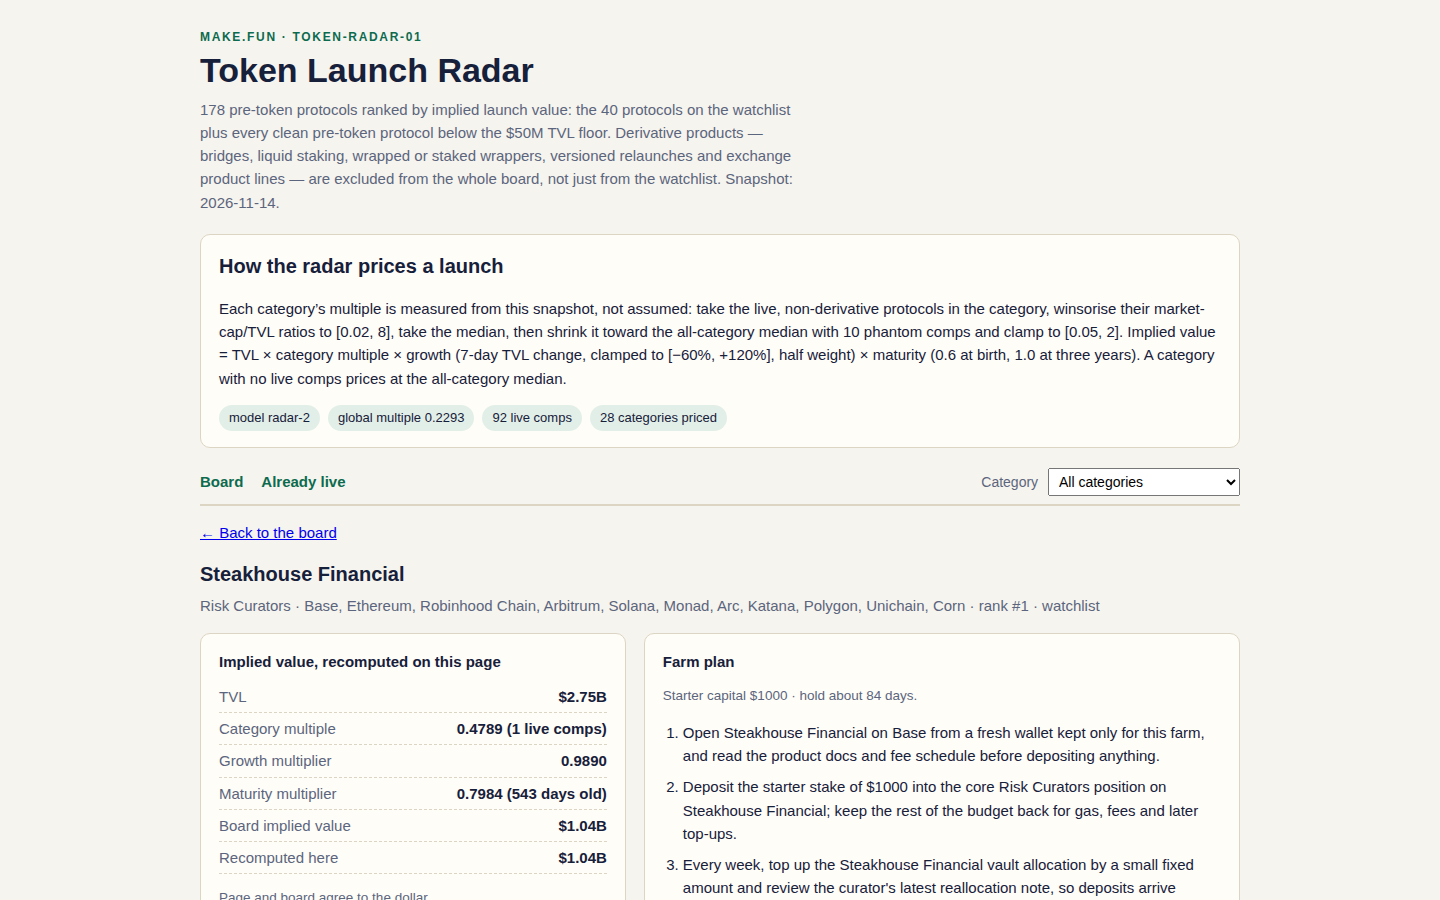
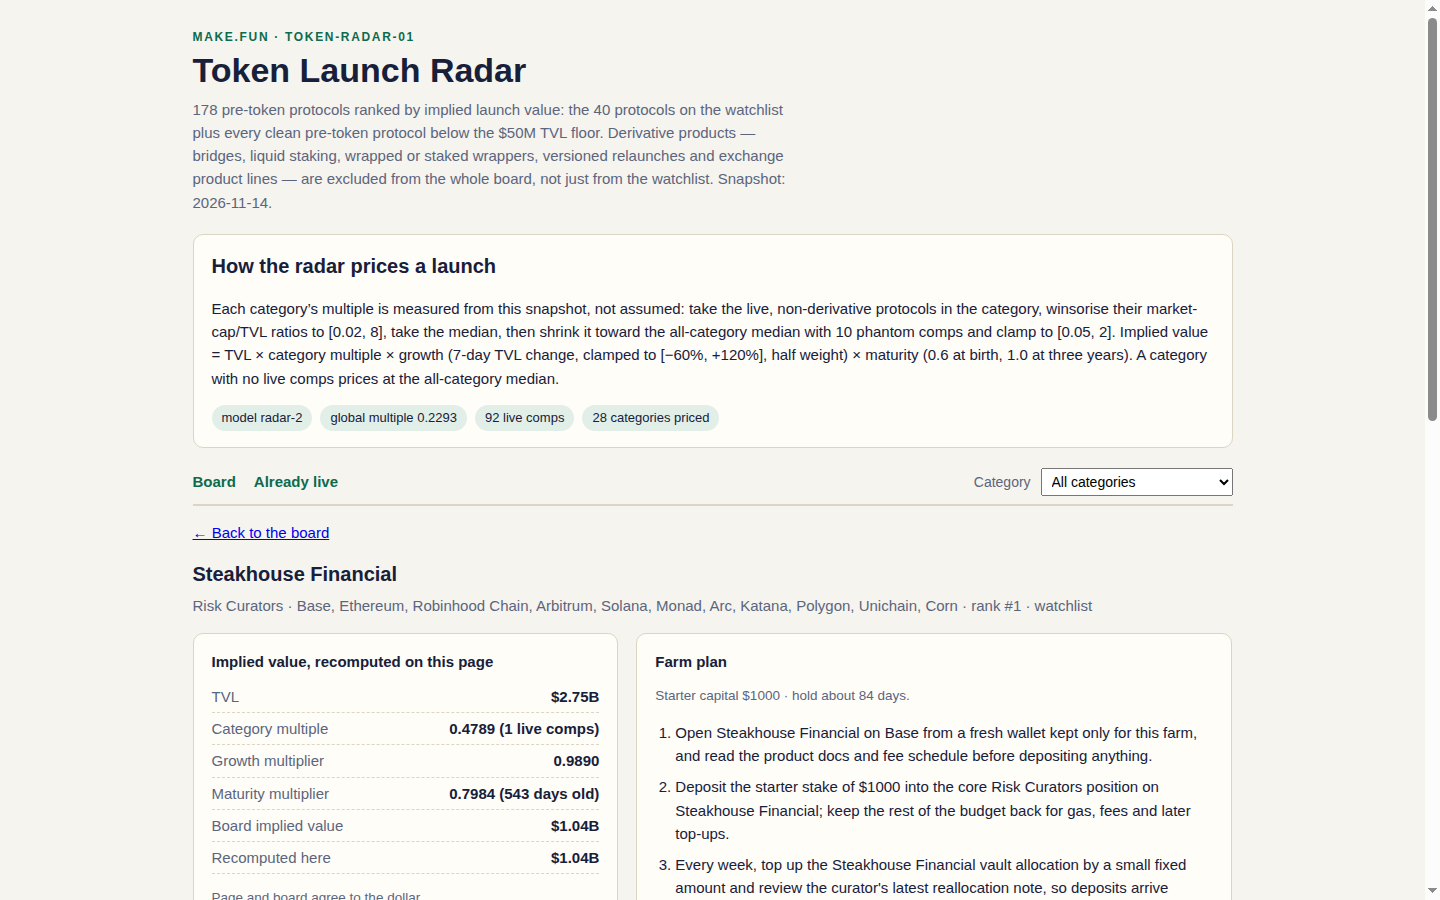
Add leave-one-out validation evidence panel, reproducibility and limits notes; refresh screenshots

diff --git a/lib/model.ts b/lib/model.ts
@@ -279,6 +279,118 @@ export function farmPlan(p: Protocol, category: string): { capital_usd: number; 
   return { capital_usd: capital, hold_days: hold, steps };
 }
 
+// -------------------------------------------------------------- validation
+
+/** How the measured multiples perform when they are tested, not asserted. */
+export interface Validation {
+  /** Live protocols the test ran over (the same set that feeds pricing). */
+  comps: number;
+  /** Median fold error of the category model: half of all leave-one-out
+   * predictions land within this factor of the real market cap. */
+  median_fold_error: number;
+  /** Share of predictions within 2x of the real market cap, percent. */
+  within_2x_pct: number;
+  /** Share of predictions within 3x of the real market cap, percent. */
+  within_3x_pct: number;
+  /** The same two numbers for a flat all-category multiple, as a baseline. */
+  baseline_median_fold_error: number;
+  baseline_within_2x_pct: number;
+  /** Spearman rank correlation between predicted and actual market caps:
+   * the radar is a ranking, so this is the number that grades its order. */
+  rank_correlation: number;
+  baseline_rank_correlation: number;
+}
+
+const round3 = (x: number): number => Math.round(x * 1000) / 1000;
+const round1 = (x: number): number => Math.round(x * 10) / 10;
+
+/**
+ * Leave-one-out back-test of the pricing model on the snapshot's own live
+ * protocols. For each live comp, the category multiple is re-measured
+ * without that comp (the global median is re-measured too), the comp's
+ * market cap is predicted from its TVL alone, and the prediction is scored
+ * against the market cap it actually trades at. A flat global multiple is
+ * scored the same way as the baseline the category model has to beat.
+ */
+export function validateModel(protocols: Protocol[]): Validation {
+  const comps: { category: string; tvl: number; mcap: number; ratio: number }[] = [];
+  const ratiosByCategory = new Map<string, number[]>();
+  const allRatios: number[] = [];
+  for (const p of protocols) {
+    if (isPreToken(p) || isDerivative(p)) continue;
+    if (p.mcap_usd === null || p.mcap_usd <= 0 || p.tvl_usd <= 0) continue;
+    const ratio = clamp(p.mcap_usd / p.tvl_usd, WINSOR_LO, WINSOR_HI);
+    comps.push({ category: p.category, tvl: p.tvl_usd, mcap: p.mcap_usd, ratio });
+    allRatios.push(ratio);
+    const list = ratiosByCategory.get(p.category);
+    if (list) list.push(ratio);
+    else ratiosByCategory.set(p.category, [ratio]);
+  }
+  const folds: number[] = [];
+  const baselineFolds: number[] = [];
+  const predictedCaps: number[] = [];
+  const baselineCaps: number[] = [];
+  const actualCaps: number[] = [];
+  for (const comp of comps) {
+    const looAll = [...allRatios];
+    looAll.splice(looAll.indexOf(comp.ratio), 1);
+    const looGlobal = median(looAll);
+    const looCat = [...(ratiosByCategory.get(comp.category) ?? [])];
+    looCat.splice(looCat.indexOf(comp.ratio), 1);
+    const multiple =
+      looCat.length > 0
+        ? clamp((looCat.length * median(looCat) + SHRINK_K * looGlobal) / (looCat.length + SHRINK_K), MULT_LO, MULT_HI)
+        : looGlobal;
+    const predicted = comp.tvl * multiple;
+    folds.push(Math.max(predicted / comp.mcap, comp.mcap / predicted));
+    const baseline = comp.tvl * looGlobal;
+    baselineFolds.push(Math.max(baseline / comp.mcap, comp.mcap / baseline));
+    predictedCaps.push(predicted);
+    baselineCaps.push(baseline);
+    actualCaps.push(comp.mcap);
+  }
+  const within = (xs: number[], cap: number): number => (xs.filter((x) => x <= cap).length / xs.length) * 100;
+  return {
+    comps: comps.length,
+    median_fold_error: round3(median(folds)),
+    within_2x_pct: round1(within(folds, 2)),
+    within_3x_pct: round1(within(folds, 3)),
+    baseline_median_fold_error: round3(median(baselineFolds)),
+    baseline_within_2x_pct: round1(within(baselineFolds, 2)),
+    rank_correlation: round3(spearman(predictedCaps, actualCaps)),
+    baseline_rank_correlation: round3(spearman(baselineCaps, actualCaps)),
+  };
+}
+
+/** Spearman rank correlation: average ranks for ties, Pearson on the ranks. */
+function spearman(xs: number[], ys: number[]): number {
+  const ranks = (vs: number[]): number[] => {
+    const order = vs.map((v, i) => [v, i] as const).sort((a, b) => a[0] - b[0]);
+    const out = new Array<number>(vs.length);
+    for (let i = 0; i < order.length; ) {
+      let j = i;
+      while (j + 1 < order.length && order[j + 1]![0] === order[i]![0]) j++;
+      const avg = (i + j) / 2 + 1;
+      for (let k = i; k <= j; k++) out[order[k]![1]] = avg;
+      i = j + 1;
+    }
+    return out;
+  };
+  const rx = ranks(xs);
+  const ry = ranks(ys);
+  const mx = rx.reduce((a, b) => a + b, 0) / rx.length;
+  const my = ry.reduce((a, b) => a + b, 0) / ry.length;
+  let cov = 0;
+  let vx = 0;
+  let vy = 0;
+  for (let i = 0; i < rx.length; i++) {
+    cov += (rx[i]! - mx) * (ry[i]! - my);
+    vx += (rx[i]! - mx) ** 2;
+    vy += (ry[i]! - my) ** 2;
+  }
+  return vx > 0 && vy > 0 ? cov / Math.sqrt(vx * vy) : 0;
+}
+
 // ------------------------------------------------------------------- board
 
 /** One row of the ranked board (board.json) and of the dashboard data. */

diff --git a/dashboard/app.js b/dashboard/app.js
@@ -135,6 +135,43 @@ function render(data) {
     '<span class="chip">' + m.comps_total + ' live comps</span>' +
     '<span class="chip">' + m.categories_with_comps + ' categories priced</span>';
 
+  var v = data.validation;
+  document.getElementById('validation-text').textContent =
+    'The multiples above are tested, not just asserted. Each of the ' + v.comps + ' live ' +
+    'protocols in this snapshot is priced as if it were still pre-token: its category ' +
+    'multiple is re-measured without it (leave-one-out), its market cap is predicted from ' +
+    'TVL alone, and the prediction is scored against the market cap it actually trades at. ' +
+    'The result is a wide band, stated plainly: the median prediction is off by ' +
+    v.median_fold_error.toFixed(2) + '\u00d7; ' + v.within_2x_pct + '% of predictions land ' +
+    'within 2\u00d7 and ' + v.within_3x_pct + '% within 3\u00d7. A flat all-category multiple ' +
+    'scores the same within noise (median ' + v.baseline_median_fold_error.toFixed(2) +
+    '\u00d7; rank correlation ' + v.baseline_rank_correlation.toFixed(2) + ' against this ' +
+    'model\u2019s ' + v.rank_correlation.toFixed(2) + ') — on a single snapshot, category ' +
+    'pricing cannot be shown to beat TVL alone, and this page does not pretend otherwise. ' +
+    'The category model is kept because a lending protocol and a perps protocol with equal ' +
+    'TVL do not launch alike, so each sector\u2019s measured multiple is the honest prior ' +
+    'for its own protocols. Read the ranking as a screening order with the spread above ' +
+    'attached to every number on it.';
+  document.getElementById('validation-chips').innerHTML =
+    '<span class="chip">leave-one-out \u00b7 ' + v.comps + ' live protocols</span>' +
+    '<span class="chip">median error ' + v.median_fold_error.toFixed(2) + '\u00d7</span>' +
+    '<span class="chip">' + v.within_2x_pct + '% within 2\u00d7</span>' +
+    '<span class="chip">rank correlation ' + v.rank_correlation.toFixed(2) + '</span>';
+
+  document.getElementById('repro-text').textContent =
+    'Reproduce it: this board is a pure function of the sealed snapshot. Rebuilding with ' +
+    'node main.ts --input snapshot.json (Node 22, standard library only, no network, no ' +
+    'clock) yields board.json byte for byte — sha256 ' + data.board_sha256 + '. This page ' +
+    'goes further and re-derives every implied value and farm plan from the printed row ' +
+    'inputs in your browser, flagging any row that disagrees with the board.';
+  document.getElementById('limits-text').textContent =
+    'Limits, stated plainly: the snapshot is one moment (' + data.as_of + ') and TVL moves. ' +
+    'A category multiple is the median of what similar tokens trade at today, not a promise ' +
+    'about any single launch — individual launches land far above and below it, as the ' +
+    'back-test spread shows. The snapshot carries no token supply, unlock schedule, team or ' +
+    'audit data, so the model uses none: it ranks where a launch would plausibly price if it ' +
+    'prices like its category, and the farm plans are sized to survive being wrong.';
+
   var cats = [];
   rows.forEach(function (r) { if (cats.indexOf(r.category) < 0) cats.push(r.category); });
   cats.sort();

diff --git a/main.ts b/main.ts
@@ -13,11 +13,12 @@
 // Output: $MAKEFUN_OUTPUT_DIR, default /output
 // No network, no clock, no randomness: two runs agree byte for byte.
 
+import { createHash } from 'node:crypto';
 import { cpSync, mkdirSync, readFileSync, writeFileSync } from 'node:fs';
 import { dirname, join } from 'node:path';
 import { fileURLToPath } from 'node:url';
 import { buildDossier } from './vendor/makefun-board.ts';
-import { buildBoard, MODEL_VERSION, type Snapshot } from './lib/model.ts';
+import { buildBoard, MODEL_VERSION, validateModel, type Snapshot } from './lib/model.ts';
 
 const root = dirname(fileURLToPath(import.meta.url));
 
@@ -36,7 +37,13 @@ function main(): void {
 
   // board.json: the ranked board on its own, in the gate's row schema. The
   // model constants travel in data.js, beside the page that renders them.
-  writeFileSync(join(outDir, 'board.json'), `${JSON.stringify({ rows: board.rows }, null, 2)}\n`);
+  const boardJson = `${JSON.stringify({ rows: board.rows }, null, 2)}\n`;
+  writeFileSync(join(outDir, 'board.json'), boardJson);
+  const boardSha256 = createHash('sha256').update(boardJson).digest('hex');
+
+  // The pricing model, back-tested leave-one-out on the snapshot's own live
+  // protocols: evidence for the page, computed by the same pure code path.
+  const validation = validateModel(snapshot.protocols);
 
   const categoryMultiples = Object.fromEntries(
     [...board.pricing.by_category.entries()]
@@ -59,6 +66,8 @@ function main(): void {
     as_of: snapshot.as_of,
     floor_usd: snapshot.floor_usd,
     source: snapshot.source,
+    board_sha256: boardSha256,
+    validation,
     rows: board.rows.map((row) => {
       const detail = board.details.get(row.slug)!;
       return {
@@ -98,6 +107,13 @@ function main(): void {
       `${board.rows.length - watchCount} early), ` +
       `${board.live.length} live set aside, global multiple ${board.pricing.global_multiple}`,
   );
+  console.log(
+    `validation (leave-one-out, ${validation.comps} live comps): median fold error ` +
+      `${validation.median_fold_error}x, ${validation.within_2x_pct}% within 2x, ` +
+      `${validation.within_3x_pct}% within 3x; flat-multiple baseline ` +
+      `${validation.baseline_median_fold_error}x, ${validation.baseline_within_2x_pct}% within 2x`,
+  );
+  console.log(`board.json sha256 ${boardSha256}`);
 }
 
 main();

diff --git a/dashboard/index.html b/dashboard/index.html
@@ -75,6 +75,18 @@
   </section>
 </main>
 
+<section class="panel" id="validation-panel">
+  <h2>Evidence — the model, tested on protocols that already launched</h2>
+  <p id="validation-text">Loading the back-test…</p>
+  <div class="chips" id="validation-chips"></div>
+</section>
+
+<section class="panel" id="limits-panel">
+  <h2>Reproduce this board — and what it cannot tell you</h2>
+  <p id="repro-text">Loading…</p>
+  <p id="limits-text">Loading…</p>
+</section>
+
 <footer>
   <p id="footer-note"></p>
 </footer>
